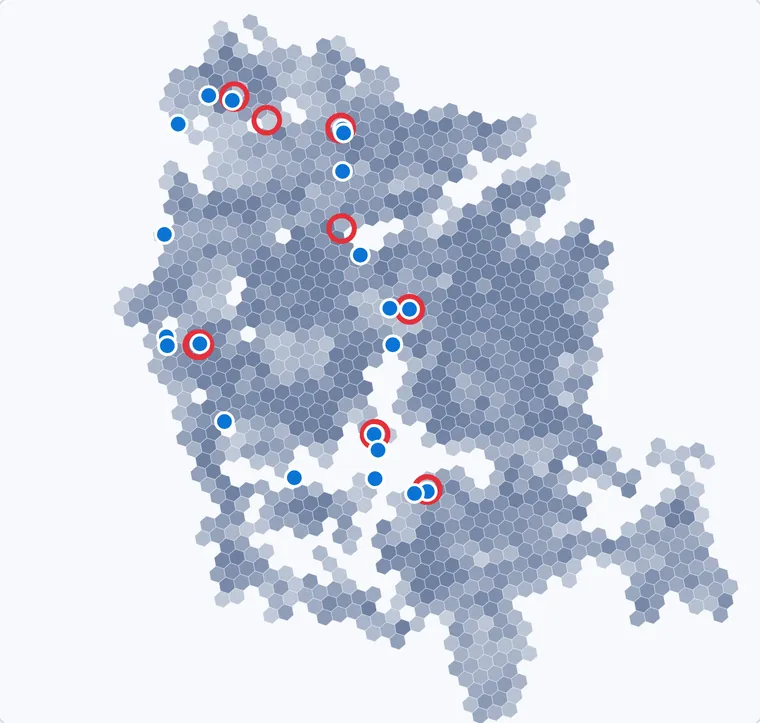
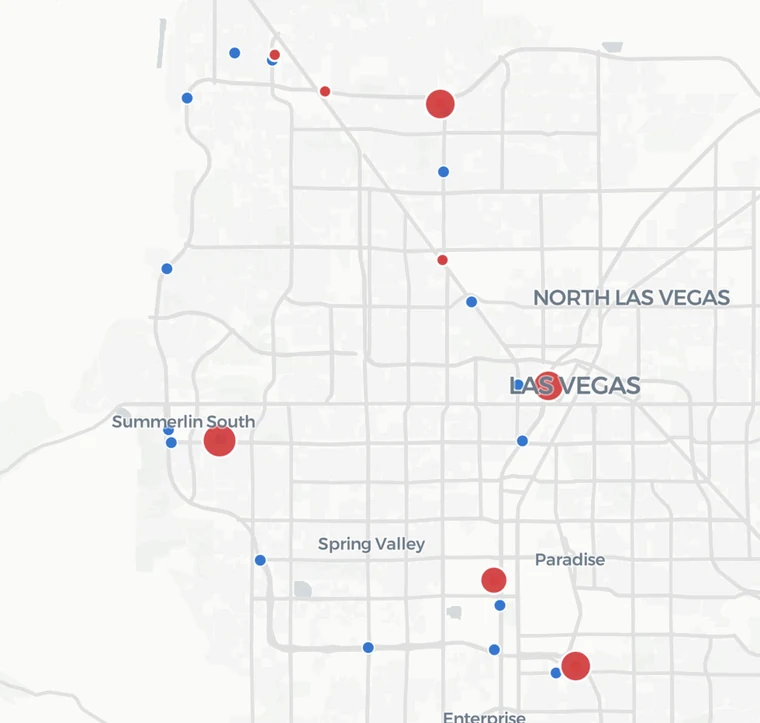
Swap in the Builder fleet map and use the real CARTO map field names
The fleet map is now the CARTO Builder render (Geotab positions only,
Positron basemap, attribution in the disclosure). It shares the other
maps' projection but is zoomed in about 1.56x, so it gets its own scale
bar width. The map step uses the real field names: datasets by $ref with
connectionId/source/geoColumn, layers under keplerMapConfig with dataId
"$ref:name" and visualChannels.colorField, mapId, and the
get_workspace_info urlTemplates shape. The bundle stays simplified, and
the section comment says so. Colors match the deck.

AI-Model: claude

diff --git a/data/conversations.js b/data/conversations.js
@@ -46,7 +46,8 @@ function bars(list, labelKey, valueKey) {
 /* The CARTO path's maps are the assistant's renders of this session's results
  * (assets/carto-*.webp, one shared framing); `cartoMap` adds the chrome and
  * labels points from D.carto by their x/y. opts: layer (chip text), source
- * (what the map was drawn from), note (replaces the snapshot line). */
+ * (what the map was drawn from), note (replaces the snapshot line), scaleWidth
+ * (for a map not on the shared framing). */
 var C = D.carto || { hubs: [], coverage: {}, sixthHub: { candidates: [] }, isoline: {} };
 function cartoMap(image, title, summary, labels, opts) {
   opts = opts || {};
@@ -58,7 +59,7 @@ function cartoMap(image, title, summary, labels, opts) {
     summary: summary,
     layerLabel: opts.layer || "H3 res 8 · residents",
     scale: "5 km",
-    scaleWidth: "10%",
+    scaleWidth: opts.scaleWidth || "10%",
     pins: (labels || []).map(function (p) { return { label: p.label, x: p.x, y: p.y, status: "label", flip: !!p.flip }; }),
     disclosure:
       (opts.source || "Drawn by the assistant from this session's CARTO query results · residents: Kontur Population (H3 res 8)") +
@@ -5311,7 +5312,8 @@ window.CONVERSATIONS = {
     /* ================= Spatial analytics · Geotab MCP + CARTO MCP =================
      * Replays a real session (D.carto): one assistant calling Geotab tools for the
      * fleet and CARTO tools for the spatial work. Tool names and argument names
-     * follow the real schemas; SQL and values are simplified on purpose. Two steps
+     * follow the real schemas; SQL and values are simplified on purpose, and so is
+     * the map bundle (real field names, most of the Kepler config elided). Two steps
      * follow CARTO's recommended tool flow rather than the recorded session: the
      * per-cell query behind the gaps/score maps, and the map step (validate_map
      * schema → verify → create_map → view_map → get_workspace_info).
@@ -5366,9 +5368,14 @@ window.CONVERSATIONS = {
         cartoMap(
           "carto-fleet.webp",
           "Fleet right now · " + C.snapshotLocal,
-          C.driving + " driving (blue) · " + C.parked + " parked (red rings)",
+          C.driving + " driving (blue) · " + C.parked + " parked (red dots, bigger = more vehicles)",
           null,
-          { layer: "Vehicles · latest position", source: "Drawn by the assistant from this session's Geotab positions" }
+          {
+            layer: "Vehicles · latest position",
+            // same projection as the other maps, zoomed in ~1.56× (about 32 km across), so 5 km is ~15.6% of the width
+            scaleWidth: "15.6%",
+            source: "Map built in CARTO Builder · © CARTO, © OpenStreetMap contributors",
+          }
         ),
         {
           type: "assistant",
@@ -5726,15 +5733,21 @@ window.CONVERSATIONS = {
               title: "Las Vegas fleet hubs",
               privacy: "private",
               datasets: [
-                { name: "vehicles", connection_name: C.connection, sql: "SELECT … FROM UNNEST([ … ])   -- " + C.vehicles + " positions" },
-                { name: "hubs", connection_name: C.connection, sql: "SELECT … -- the five hub cells + the proposed sixth site" },
-                { name: "cell_scores", connection_name: C.connection, sql: "SELECT h3, population, dist_km_to_nearest_hub, score … -- every cell, as in the site search" },
+                { $ref: "vehicles", type: "query", connectionId: "…", source: "SELECT … FROM UNNEST([ … ])   -- " + C.vehicles + " positions", geoColumn: "geom" },
+                { $ref: "hubs", type: "query", connectionId: "…", source: "SELECT … -- the five hub cells + the proposed sixth site", geoColumn: "h3" },
+                { $ref: "cell_scores", type: "query", connectionId: "…", source: "SELECT h3, population, dist_km_to_nearest_hub, score … -- every cell, as in the site search", geoColumn: "h3" },
               ],
-              layers: [
-                { dataset: { $ref: "vehicles" }, type: "point", color_by: "isDriving", colors: { "true": "#0B73D6", "false": "#E0323E" } },
-                { dataset: { $ref: "hubs" }, type: "h3" },
-                { dataset: { $ref: "cell_scores" }, type: "h3", color_by: "dist_km_to_nearest_hub" },
-              ],
+              keplerMapConfig: {
+                config: {
+                  visState: {
+                    layers: [
+                      { type: "point", config: { dataId: "$ref:vehicles", colors: { "true": "#0A74D6", "false": "#E5303A" } }, visualChannels: { colorField: { name: "isDriving" } } },
+                      { type: "hexagonId", config: { dataId: "$ref:hubs" } },
+                      { type: "hexagonId", config: { dataId: "$ref:cell_scores" }, visualChannels: { colorField: { name: "dist_km_to_nearest_hub" } } },
+                    ],
+                  },
+                },
+              },
             },
           },
           summary: "bundle valid · 3 datasets · SQL dry-run OK",
@@ -5747,13 +5760,13 @@ window.CONVERSATIONS = {
           args: { bundle: "<the verified bundle>" },
           summary: "private Builder map created",
           write: true,
-          result: '{ "map_id": "…", "privacy": "private" }',
+          result: '{ "mapId": "…", "privacy": "private" }',
         },
         {
           type: "tool",
           server: "carto",
           name: "view_map",
-          args: { map_id: "…" },
+          args: { mapId: "…" },
           summary: "interactive map in chat (MCP Apps hosts only)",
           result: "// renders the map inline where the host supports MCP Apps; elsewhere, use the Builder link",
         },
@@ -5763,7 +5776,9 @@ window.CONVERSATIONS = {
           name: "get_workspace_info",
           args: {},
           summary: "workspace URL template for Builder links",
-          result: '{ "map_url_template": "https://<your-carto-workspace>/…/{map_id}", … }',
+          result:
+            '{ "workspaceUrl": "https://<your-carto-workspace>",\n' +
+            '  "urlTemplates": { "builderMap": { "template": "https://<your-carto-workspace>/builder/{mapId}" }, … } }',
         },
         {
           type: "system",
@@ -5776,7 +5791,7 @@ window.CONVERSATIONS = {
           text:
             "I've saved it as a **private map in Builder**: the vehicles (blue driving, red parked), the five hubs plus the " +
             "proposed sixth site, and distance to the nearest hub. If it didn't appear above, open it from the link: " +
-            "`https://<your-carto-workspace>/…/<map_id>`. Share it from there when you're ready.\n\n" +
+            "`https://<your-carto-workspace>/builder/<mapId>`. Share it from there when you're ready.\n\n" +
             "The drive-time areas aren't on it yet. Their polygons are too big to put inline in the map (it fails with " +
             "\"URI too long\"), so I'd save them to a table with `execute_query` first and point the map at that table.",
         },
